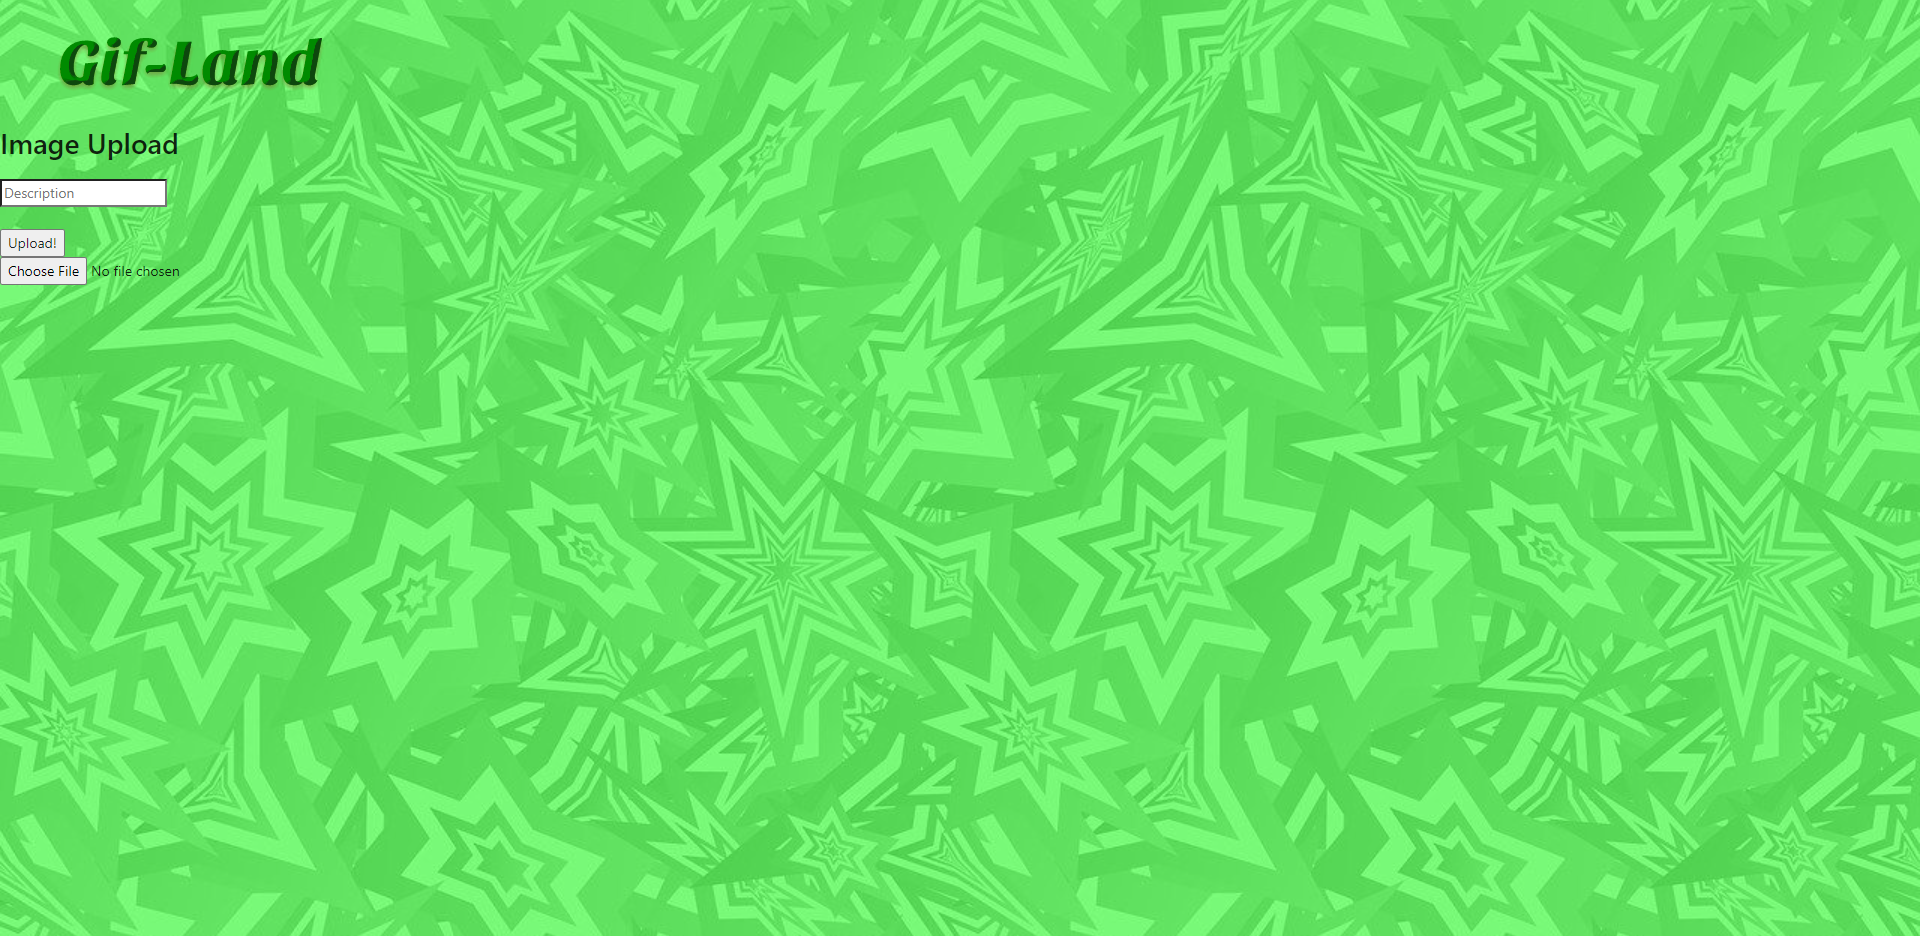
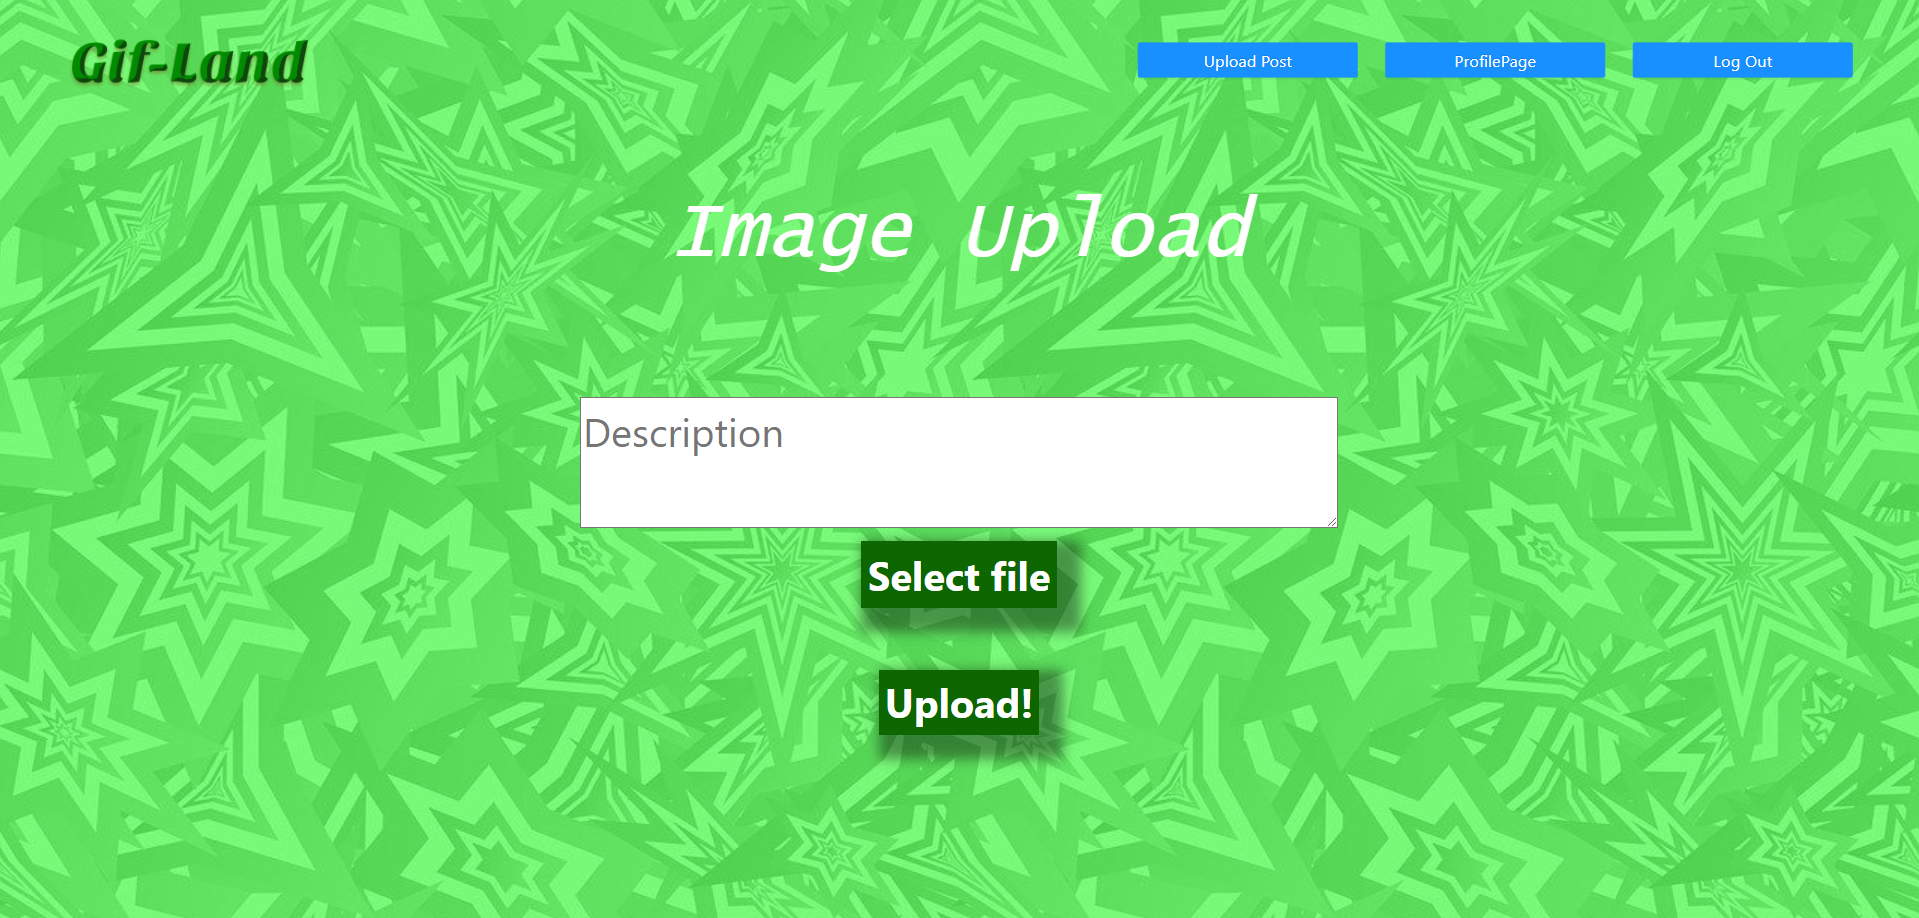
Gif-Upload ja NavBar ilusaks tehtud. Lisatud ka screenshot

diff --git a/frontend-react/src/components/Navbar.js b/frontend-react/src/components/Navbar.js
@@ -1,34 +1,64 @@
 import './Navbar.css';
 import { Link } from 'react-router-dom';
 import React from 'react';
-import {useContext} from "react";
+import 'antd/dist/antd.css';
+import { Button } from 'antd';
+
+import {useContext} from 'react';
 import {Context} from "../store";
+import { logoutUser} from "../store/actions";
+
 
 function Navbar (){
+    const [state, dispatch] = useContext(Context)
+    //console.log(state);
 
-    const [state] = useContext(Context);
 
+    //funktsiioon, et kui klikitakse logo peale siis logib v2lja
+    function myFunction(nr){
+        if(nr === 1){
+            console.log("Log Out");
+            dispatch(logoutUser());
+        }
+
+    }
+    
     if (!state.auth.token) {
-    return (
-        React.createElement("header", { className: "navbar" }, 
-            React.createElement("div", { className: "navbar__title"},
-                <Link to="/Posts" style={{ textDecoration: 'none', color: 'white' }}>
-                    <img className="logo" src="/Gif-Land.png" alt=""/> 
+        return (
+            <div className="Navbar">
+                <div className="NavbarL">
+                <Link to ="/posts">
+                    <img className="logo" src="/Gif-Land.png" alt="Veebilehe logo"></img>
                 </Link>
-                )
-        ));
-
+                </div>
+                <div className="NavbarR">
+    
+                </div>
+            </div>
+        );
+    
     } else {
-    return (
-        React.createElement("header", { className: "navbar" }, 
-        React.createElement("div", { className: "navbar__title"},
-            <Link to="/Posts" style={{ textDecoration: 'none', color: 'white' }}>
-                <img className="logo" src="/Gif-Land.png" alt=""/> 
-            </Link>),
-            React.createElement("div", { className: "navbar__item"},
-            <Link to="/login" style={{ textDecoration: 'none', color: 'white' }}>Logout
-            </Link>)
-        ));
+        return (
+            <div className="Navbar">
+                <div className="NavbarL">
+                <Link to ="/posts">
+                    <img className="logo" src="/Gif-Land.png" alt="Veebilehe logo"></img>
+                </Link>
+                </div>
+                <div className="NavbarR">
+
+                <Link to="/addPost">
+                    <Button type="primary">Upload Post</Button>
+                </Link>
+                <Link to="/profilepage">
+                    <Button type="primary">ProfilePage</Button>
+                </Link>
+                <Link to="/" onClick={() => myFunction(1)}>
+                    <Button type="primary">Log Out</Button>
+                </Link>
+                </div>
+            </div>
+        );
     }
 
 }

diff --git a/frontend-react/src/components/AddPostForm.js b/frontend-react/src/components/AddPostForm.js
@@ -1,7 +1,8 @@
 import axios from 'axios';
 import React, { useState } from 'react';
-let kell;
 
+import 'antd/dist/antd.css';
+let kell;
 
 function AddPostForm(props){
 
@@ -10,7 +11,7 @@ function AddPostForm(props){
         try{
             console.log(kell);
             console.log(image);
-            axios.post('http://localhost:4000/image-upload', image)
+            axios.post('http://localhost:5000/image-upload', image)
             .then(res => {
                 console.log('Axios response: ', res)
             }).then(function (response) {
@@ -28,8 +29,12 @@ function AddPostForm(props){
         }
     }
     const handleFileInput = (e) => {
+
+        
       console.log('handleFileInput working!')
       console.log(e.target.files[0]);
+      var b = document.getElementById('fileLabel');
+      b.innerHTML = e.target.files[0].name;
       const formData = new FormData();
       kell = Date.now();
       console.log(kell.toString());
@@ -77,17 +82,23 @@ function AddPostForm(props){
             props.onPictureUpload(0);
         }
     }
-    
+
+
+
+    //<input type="file" id="aa" onChange={handleFileInput}/>
+
 
     return(
         <div>
-            <input type="text" id="Desc_input" placeholder="Description"></input>
+            <textarea id="Desc_input"  rows="2" cols="40" placeholder="Description"/>
+
+            <div className="file-input">
+                <input type="file" id="file" className="file" onChange={handleFileInput}/>
+                <label htmlFor="file">Select file</label>
+            </div>
+            <label id="fileLabel"></label>
             <br></br>
-            <br></br>
-            <button onClick={handleClick}>Upload!</button>
-            <br></br>
-            <input type="file" onChange={handleFileInput}/>
-            <br></br>
+            <button className="uploadButton" onClick={handleClick}>Upload!</button>
         </div>
     )
 }

diff --git a/frontend-react/src/pages/AddPost.js b/frontend-react/src/pages/AddPost.js
@@ -2,6 +2,7 @@ import {useContext} from 'react'
 import {Context} from "../store"
 import Navbar from "../components/Navbar"
 import AddPostForm from '../components/AddPostForm';
+import './AddPost.css'
 
 
 
@@ -22,12 +23,18 @@ function AddPost() {
   return (
     <div className="App">
       <Navbar/>
-      <h1>Image Upload</h1>
-
-      <AddPostForm onPictureUpload={itemSubmitHandler}/>
-      <br></br>
-      <span id="numbrike"></span>
-      <br></br>
+      <div className="grid-container">
+        <div className="grid-item1">
+          <h1 id="tervitus">Image Upload</h1>
+        </div>
+        <div className="grid-item1">
+          <AddPostForm onPictureUpload={itemSubmitHandler}/>
+        </div>
+        <br></br>
+        <div className="grid-item1">
+          <span id="numbrike"></span>
+        </div>
+      </div>
     </div>
   );
 }
@@ -42,7 +49,6 @@ import {Context} from "../store"
 import Navbar from "../components/Navbar"
 import AddPostForm from '../components/AddPostForm';
 import FileUpload from '../components/FileUpload';
-
 function AddPost(){
   return(
   <div className="App">
@@ -56,5 +62,4 @@ function AddPost(){
   </div>
 );
 }
-
 export default AddPost;*/

diff --git a/frontend-react/src/pages/AddPost.css b/frontend-react/src/pages/AddPost.css
@@ -1,0 +1,26 @@
+
+.file {
+    opacity: 0;
+    width: px;
+    height: 0.1px;
+    position: absolute;
+  }
+
+.file-input label {
+    font-size: 100%;
+    padding: 7px;
+    background: #0e6600;
+    box-shadow: 12px 12px 12px 12px rgba(0, 0, 0, 0.4);
+    color: #fff;
+    font-weight: bold;
+    cursor: pointer;
+}
+.uploadButton{
+    font-size: 100%;
+    background: #0e6600;
+    box-shadow: 12px 12px 12px 12px rgba(0, 0, 0, 0.4);
+    color: #fff;
+    font-weight: bold;
+    cursor: pointer;
+    border: none;
+}

diff --git a/frontend-react/src/pages/ProfilePage.js b/frontend-react/src/pages/ProfilePage.js
@@ -1,0 +1,17 @@
+import {useContext} from 'react';
+import {Context} from "../store";
+function ProfilePage(){
+
+    const [state, dispatch] = useContext(Context)
+
+    return(
+        // loon formi teisel js failis kus tekitame sisestusest json objetki
+        <div class="grid-container">
+
+            <h1 id="tervitus">Tere Tulemast Profiililehele</h1>
+        </div>
+
+    )
+}
+
+export default ProfilePage;

diff --git a/frontend-react/src/pages/Empty.js b/frontend-react/src/pages/Empty.js
@@ -1,0 +1,17 @@
+import {useContext} from 'react';
+import {Context} from "../store";
+function ProfilePage(){
+
+    const [state, dispatch] = useContext(Context)
+
+    return(
+        // loon formi teisel js failis kus tekitame sisestusest json objetki
+        <div class="grid-container">
+
+            <h1 id="tervitus">Something went wrong</h1>
+        </div>
+
+    )
+}
+
+export default ProfilePage;

diff --git a/frontend-react/src/components/Navbar.css b/frontend-react/src/components/Navbar.css
@@ -1,6 +1,6 @@
 header.ant-layout-header{
     height: 125px;
-    background: white;
+    background: lightblue;
 }
 .NavbarL {
     margin-right: auto;
@@ -9,7 +9,7 @@ header.ant-layout-header{
   }
 .NavbarR {
     display: flex;
-    padding: 0px 35px;
+    padding: 0px 100px;
     transform: scale(1.1);
     vertical-align: middle;
 }
